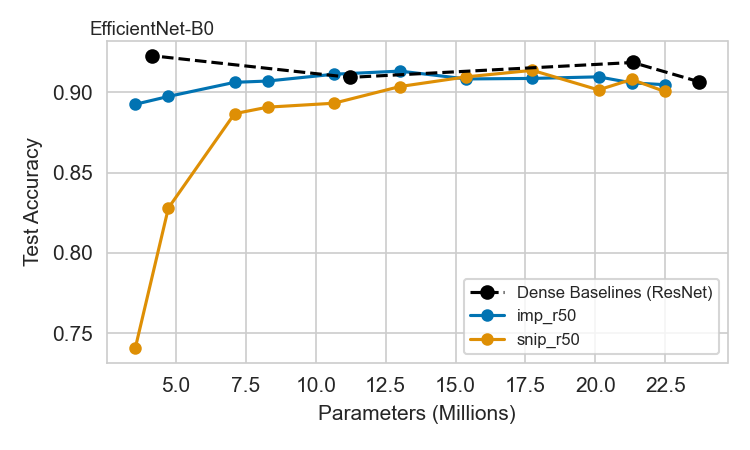
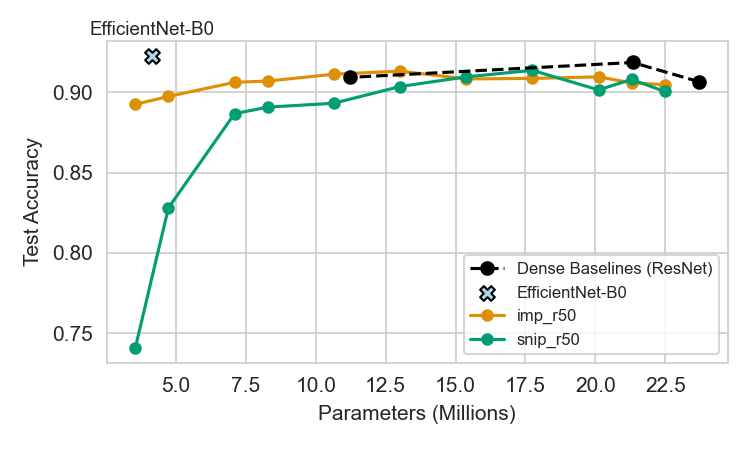
updated plot logic to exclude efficientNet 50

diff --git a/plot_results.py b/plot_results.py
@@ -27,7 +27,7 @@ def plot_experiments(experiments):
         
         df["experiment_name"] = name
         
-        if name.startswith("default") and "custom" not in name:
+        if name.startswith("default") and "custom" not in name and "effnet" not in name:
             default_dfs.append(df)
         else:
             other_experiments.append((name, df))
@@ -35,27 +35,20 @@ def plot_experiments(experiments):
     if default_dfs:
         default_df = pd.concat(default_dfs).sort_values("params_mil", ascending=False)
         plt.plot(default_df["params_mil"], default_df[acc_col], marker='o', markersize=6, linestyle='--', color='black', label="Dense Baselines (ResNet)", zorder=5)
-        
-        # Annotate the last dot (EfficientNet)
-        if len(default_df) > 0:
-            last_row = default_df.iloc[-1]
-            # Verify it's actually EfficientNet (or just annotate the last dot as requested)
-            if "effnet" in str(last_row.get("experiment_name", "")):
-                label_text = "EfficientNet-B0"
-            else:
-                label_text = "EfficientNet"
-            plt.annotate(label_text, 
-                         (last_row["params_mil"], last_row[acc_col]),
+
+    for idx, (name, df) in enumerate(other_experiments):
+        df = df.sort_values("params_mil", ascending=False)
+        color = colors[idx % len(colors)]
+        if "effnet" in name:
+            plt.scatter(df["params_mil"], df[acc_col], s=50, marker='X', label="EfficientNet-B0", color="lightblue", edgecolors='k', zorder=5)
+            plt.annotate("EfficientNet-B0", 
+                         (df["params_mil"].iloc[0], df[acc_col].iloc[0]),
                          textcoords="offset points", 
                          xytext=(0, 10), 
                          ha='center', 
                          fontsize=9,
                          zorder=10)
-
-    for idx, (name, df) in enumerate(other_experiments):
-        df = df.sort_values("params_mil", ascending=False)
-        color = colors[idx % len(colors)]
-        if len(df) == 1:
+        elif len(df) == 1:
             plt.scatter(df["params_mil"], df[acc_col], s=100, label=name, color=color, edgecolors='k', zorder=5)
         else:
             plt.plot(df["params_mil"], df[acc_col], marker='o', markersize=5, label=name, color=color)

diff --git a/README.md b/README.md
@@ -6,7 +6,7 @@ This project investigates whether **pruning a large model (ResNet-50)** is funda
 
 ![Pruning Trade-off](final_results.png)
 
-*(Figure 1: Test Accuracy vs. Parameter Count. The black dashed line represents the Dense Baselines (ResNet-18, 34, 50) and includes EfficientNet-B0 as a lightweight baseline. The solid lines show the performance trajectories of IMP and SNIP applied to ResNet-50 across 11 sparsity levels.)*
+*(Figure 1: Test Accuracy vs. Parameter Count. The black dashed line represents the Dense Baselines (ResNet-18, 34, 50), and EfficientNet-B0 is plotted as a separate cross. The solid lines show the performance trajectories of IMP and SNIP applied to ResNet-50 across 11 sparsity levels.)*
 
 ### Critical Analysis of the Results
 1. **Pruning Results**: The plot clearly shows that an Iteratively Pruned ResNet-50 (IMP) can be compressed down to ~3.5M parameters while still maintaining ~89% accuracy. In contrast, the natively trained ResNet-18 (~11M parameters) achieves roughly ~90% accuracy, and the lightweight EfficientNet-B0 (~4.1M parameters) achieves ~92% accuracy. By tracking the parameter counts on the X-axis, we see that the pruned network almost matches the naively downscaled dense models at equivalent sizes.
